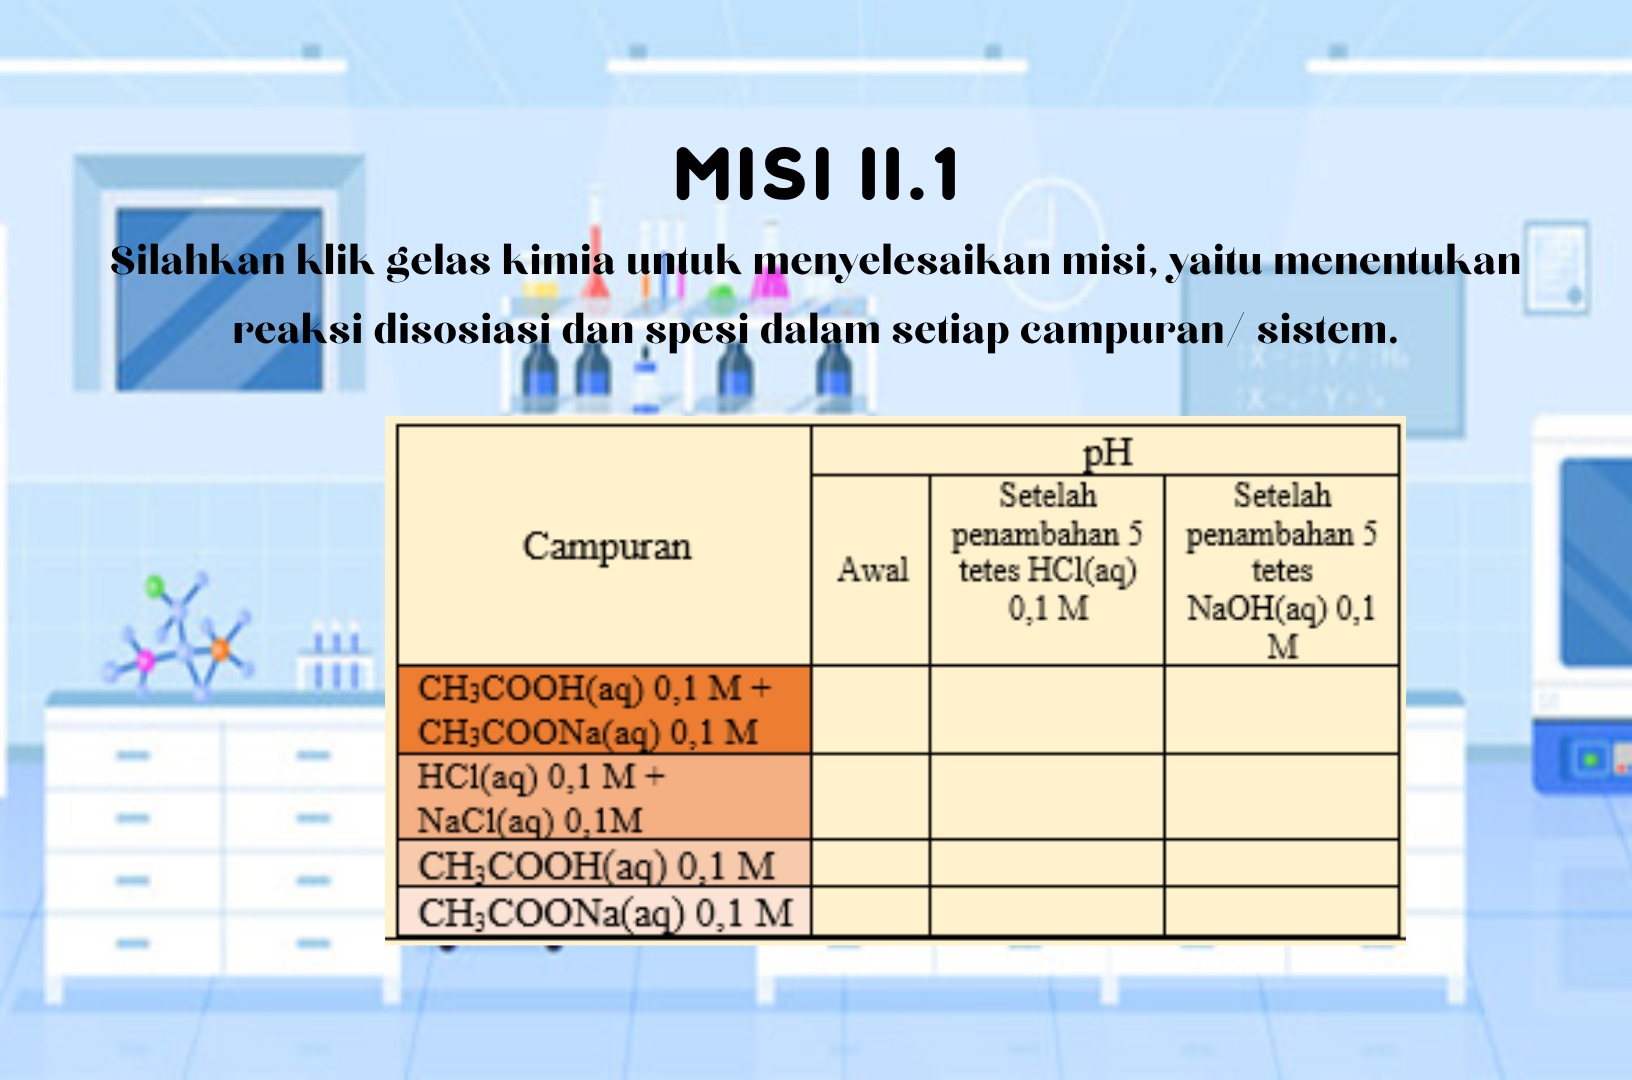
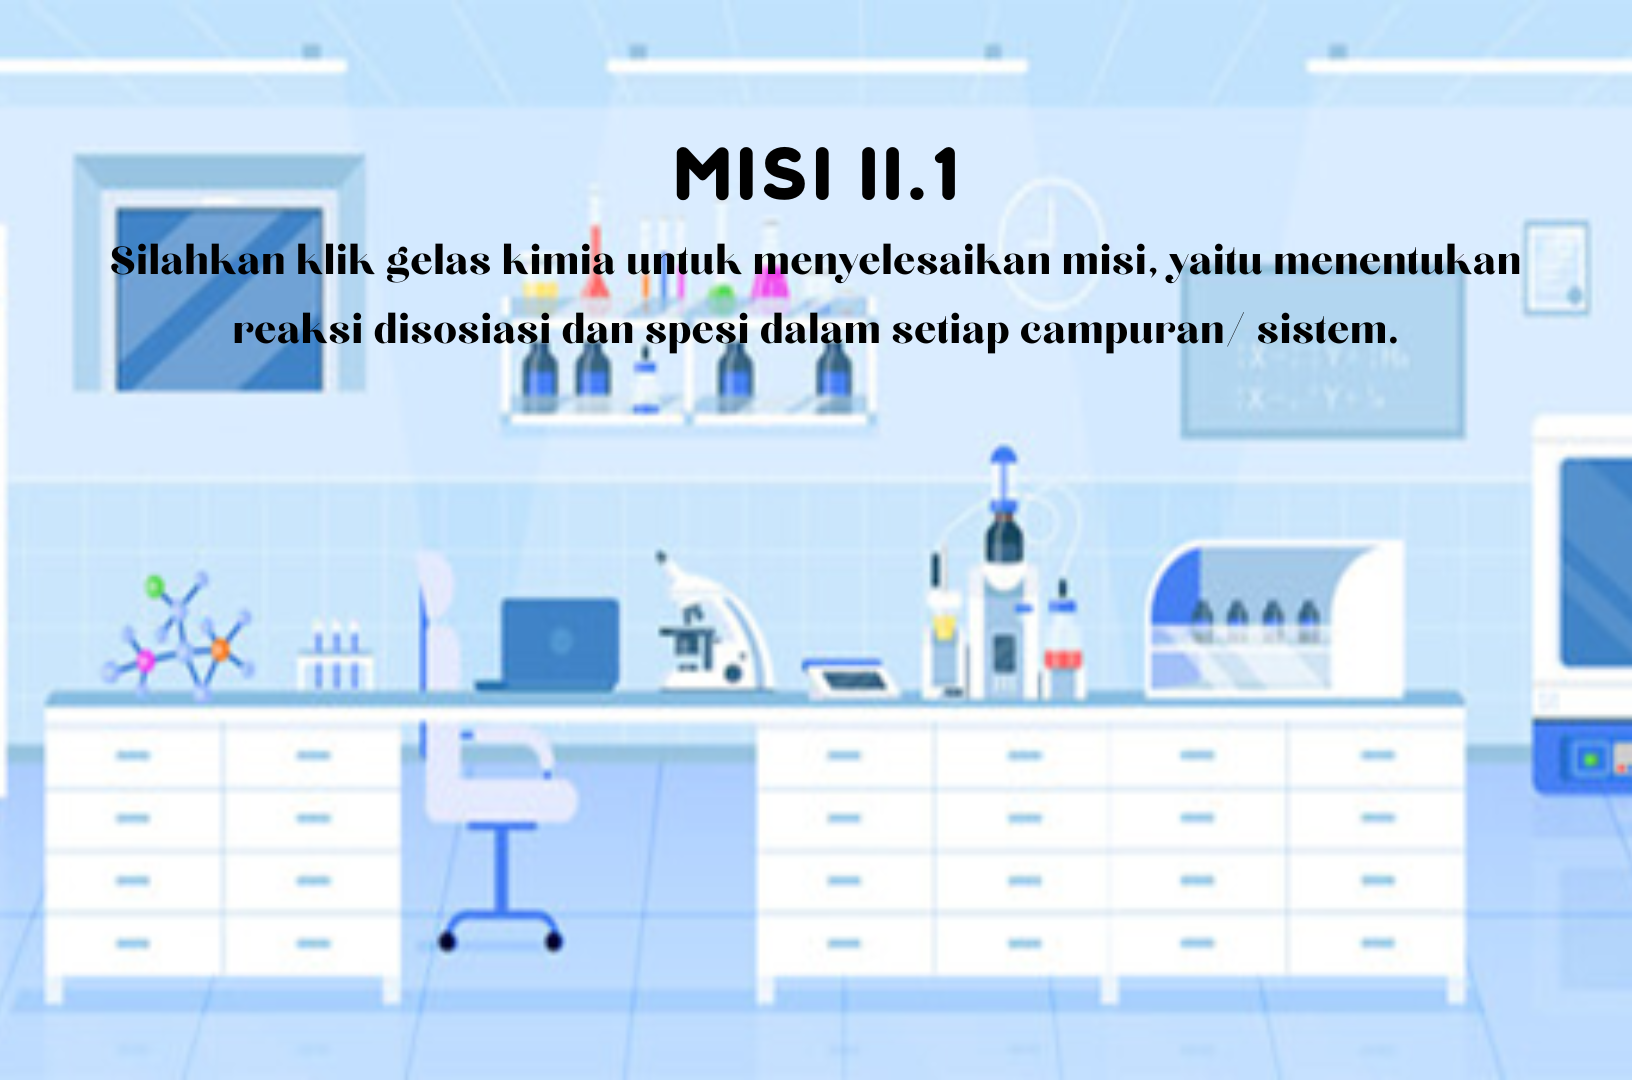
tabel misi 2.1 2.2, nyambungin 2.1 done

diff --git a/js/missionTwodotOne.js b/js/missionTwodotOne.js
@@ -1,51 +1,31 @@
-
-
-missionTwodotOne = new Phaser.Scene('menumisi2.1');
-
+missionTwodotOne = new Phaser.Scene('MenuMisi2.1');
 
 missionTwodotOne.preload = function () {
     this.load.path = './assets/';
-    this.load.image('menuBackground', 'scenes/dua_satu.png');
+    this.load.image('twoDotOneBG', 'scenes/dua_satu.png');
+    this.load.image('twoDotOneTable', 'scenes/dua_satu_table.png');
 }
 
 missionTwodotOne.create = function() {
+
+    //comment nanti, keperluan debugging doang. harusnya di initiate dari main menu.
+    middleX = this.cameras.main.width / 2;
+    middleY = this.cameras.main.height / 2;
+
+    //background
+    this.add.image(middleX, middleY, 'twoDotOneBG').setScale(1.18, 1.02);
+
+    //table
+    this.add.image(middleX + 250, middleY + 150, 'twoDotOneTable').setScale();
+
+    //button 1
+    //true ganti sm jsonMissionProses["2.1.1"]?
+    let satu = new Button(middleX - 430, middleY + 160, ' 1 ', this, () => {this.scene.start('Question211')}, true);
+
+    let dua = new Button(middleX - 310, middleY + 250, ' 2 ', this, () => {this.scene.start('Question213');}, true);
     
-   // createMissionBackgroundObjects (this, 'menuBackground');
+    let tiga = new Button(middleX - 430, middleY + 335, ' 3 ', this, () => {this.scene.start('Question215')},true);
 
-    let canvasWidth = game.canvas.width;
-    let canvasHeight = game.canvas.height;
+    let empat = new Button(middleX - 310, middleY + 385, ' 4 ', this, () => {this.scene.start('Question217')},true);
 
-    let image = this.add.image(this.cameras.main.width / 2, this.cameras.main.height / 2, 'menuBackground');
-    let scaleX = this.cameras.main.width / image.width;
-    let scaleY = this.cameras.main.height / image.height;
-    let scale = Math.max(scaleX, scaleY);
-    image.setScale(scale).setScrollFactor(0);
-
-    let baseY = canvasHeight/2 - 100;
-    let deltaX = 250;
-
-    let title1 = this.add.text(canvasWidth/2, baseY - 100, 'Pilih Misi')
-        .setOrigin(0.5)
-        .setStyle({ 'fontSize': 60, 'fill': '#000000' })
-        // .setStyle(`font-size: 60; color: #000000; font-weight: bold;`)
-        .setStroke('#fff', 5)
-    
-    let satu = new Button((canvasWidth/2) - (2*deltaX), baseY, '1', this, () => {this.scene.start('Misi1')}, true);
-    //temporary ke Question211
-    //harusnya ke Objective Misi 2
-    let dua = new Button((canvasWidth/2) - (1*deltaX), baseY, '2', this, () => {
-        this.scene.start('Question211');
-        energy = 100;
-    }, true);
-    //temporary langsung ke pertanyaannya
-    let tiga = new Button((canvasWidth/2) - (1*deltaX), baseY+100, '3', this, () => {this.scene.start('Question211')},true);
-    //seharusnya ke tabel tabulasi
-    // let btnMsn2sub1 = new Button((canvasWidth/2) - (1*deltaX), baseY+100, 'SUB-MISI II.1', this, () => {this.scene.start('mission1')},jsonMissionProses["2.1"]);
-    let empat = new Button((canvasWidth/2) - (1*deltaX), baseY+200, '4', this, () => {this.scene.start('mission1')},false);
-    // console.log(Phaser.GameObjects.Text)
-    // btnMsn1.setStroke('#000000', 100);
-    // console.log(btnMsn1.stroke);
-    // console.log(btnMsn1.strokeThickness);
 }
-
-

diff --git a/js/game.js b/js/game.js
@@ -46,17 +46,20 @@ var config = {
 
     //lengkap
 
-    scene: [mainMenu, findingObjects1, findingObjects2, 
-        question211, question212, question213, question214, question215, question216, question217, question218, question219, question2110, question2111, question2112,
-        question221, question222, question223, question224, question225, question226, question227, question228, question229, question2210, question2211, question2212, question2213, question2214,
-        selectChara, missionSelection, missionOne, missionThree, missionFour, missionFive, missionTwodotOne
-    ]
+    // scene: [mainMenu, selectChara, missionSelection, missionTwodotOne, missionTwodotTwo,
+    //     findingObjects1, findingObjects2,
+    //     question211, question212, question213, question214, question215, question216, question217, question218, question219, question2110, question2111, question2112,
+    //     question221, question222, question223, question224, question225, question226, question227, question228, question229, question2210, question2211, question2212, question2213, question2214,
+    //     missionOne, missionThree, missionFour, missionFive
+    // ]
 
 
     //development
     // scene: [question211, question212, question213, question214, question215, question216, question217, question218, question219, question2110, question2111, question2112]
     // scene: [question221, question222, question223, question224, question225, question226, question227, question228, question229, question2210, question2211, question2212, question2213, question2214]
-    // scene: [findingObjects1]
+    scene: [missionTwodotOne,
+        question211, question212, question213, question214, question215, question216, question217, question218, question219, question2110, question2111, question2112
+    ]
 };
 
 var game = new Phaser.Game(config);

diff --git a/js/missionSelection.js b/js/missionSelection.js
@@ -45,12 +45,15 @@ missionSelection.create = function() {
         this.scene.start('menumisi2.1');
         energy = 100;
     }, true);
-    //temporary langsung ke pertanyaannya
-    let btnMsn2sub1 = new Button((canvasWidth/2) - (1*deltaX), baseY+100, 'SUB-MISI II.1', this, () => {this.scene.start('Question211')},true);
-    //seharusnya ke tabel tabulasi
+    
+    //tabulasi 2.1
+    let btnMsn2sub1 = new Button((canvasWidth/2) - (1*deltaX), baseY+100, 'SUB-MISI II.1', this, () => {this.scene.start('MenuMisi2.1')},true);
+
+    //tabulasi 2.2
     // let btnMsn2sub1 = new Button((canvasWidth/2) - (1*deltaX), baseY+100, 'SUB-MISI II.1', this, () => {this.scene.start('mission1')},jsonMissionProses["2.1"]);
-    let btnMsn2sub2 = new Button((canvasWidth/2) - (1*deltaX), baseY+200, 'SUB-MISI II.2', this, () => {this.scene.start('Question221')},true);
+    let btnMsn2sub2 = new Button((canvasWidth/2) - (1*deltaX), baseY+200, 'SUB-MISI II.2', this, () => {this.scene.start('MenuMisi2.2')},true);
     // let btnMsn2sub2 = new Button((canvasWidth/2) - (1*deltaX), baseY+200, 'SUB-MISI II.2', this, () => {this.scene.start('mission1')},jsonMissionProses["2.2"]);
+    
     let btnMsn3 = new Button(canvasWidth/2, baseY, 'MISI III', this, () => {this.scene.start('Misi3')},jsonMissionProses["3"]);
     let btnMsn4 = new Button((canvasWidth/2) + (1*deltaX), baseY, 'MISI IV', this, () => {this.scene.start('Misi4')},jsonMissionProses["4"]);
     let btnMsn5 = new Button((canvasWidth/2) + (2*deltaX), baseY, 'MISI V', this, () => {this.scene.start('mission5')},jsonMissionProses["5"]);

diff --git a/js/question2110.js b/js/question2110.js
@@ -220,13 +220,13 @@ function showAnnouncementCorrectAnswer2110(scene, text) {
         descriptionBox.destroy();
         announcement.destroy();
 
-        //to question 10
+        //to question 11
         scene.scene.start('Question2111');
 
     }, middleX - 150, middleY + (descriptionBox.height/2) - 100);
 
     var exitBtn = createNextButton(scene, 'KELUAR', () => {
-        scene.scene.start('MainMenu');
+        scene.scene.start('MenuMisi2.1');
 
     }, middleX + 150, middleY + (descriptionBox.height/2) - 100);    
 }
@@ -307,21 +307,21 @@ function startOver2110(scene) {
 
     opsiJawaban2.on('pointerup', function () {
         //salah kedua kali? langsung tendang ke main menu
-        scene.scene.start('MainMenu');
+        scene.scene.start('MenuMisi2.1');
     });
 
     opsiJawaban3.on('pointerup', function () {
         //salah kedua kali? langsung tendang ke main menu
-        scene.scene.start('MainMenu');
+        scene.scene.start('MenuMisi2.1');
     });
 
     opsiJawaban4.on('pointerup', function () {
         //salah kedua kali? langsung tendang ke main menu
-        scene.scene.start('MainMenu');
+        scene.scene.start('MenuMisi2.1');
     });
 
     opsiJawaban5.on('pointerup', function () {
         //salah kedua kali? langsung tendang ke main menu
-        scene.scene.start('MainMenu');
+        scene.scene.start('MenuMisi2.1');
     });
 }

diff --git a/js/missionTwodotTwo.js b/js/missionTwodotTwo.js
@@ -1,0 +1,31 @@
+missionTwodotTwo = new Phaser.Scene('MenuMisi2.2');
+
+missionTwodotTwo.preload = function () {
+    this.load.path = './assets/';
+    this.load.image('twoDotOneBG', 'scenes/dua_dua.png');
+    this.load.image('twoDotOneTable', 'scenes/dua_dua_table.png');
+}
+
+missionTwodotTwo.create = function() {
+
+    //comment nanti, keperluan debugging doang. harusnya di initiate dari main menu.
+    middleX = this.cameras.main.width / 2;
+    middleY = this.cameras.main.height / 2;
+
+    //background
+    this.add.image(middleX, middleY, 'twoDotOneBG').setScale(1.18, 1.02);
+
+    //table
+    this.add.image(middleX + 250, middleY + 150, 'twoDotOneTable').setScale();
+
+    //button 1
+    //true ganti sm jsonMissionProses["2.2.1"]?
+    let satu = new Button(middleX - 550, middleY + 150, ' 1 ', this, () => {this.scene.start('Question221')}, true);
+
+    let dua = new Button(middleX - 430, middleY + 240, ' 2 ', this, () => {this.scene.start('Question223');}, true);
+    
+    let tiga = new Button(middleX - 550, middleY + 355, ' 3 ', this, () => {this.scene.start('Question225')},true);
+
+    let empat = new Button(middleX - 430, middleY + 385, ' 4 ', this, () => {this.scene.start('Question227')},false);
+
+}

diff --git a/js/question218.js b/js/question218.js
@@ -252,13 +252,13 @@ function showAnnouncementCorrectAnswer218(scene, text) {
         descriptionBox.destroy();
         announcement.destroy();
 
-        //to tabulasi screen
+        //to question 9
         scene.scene.start('Question219');
 
     }, middleX - 150, middleY + (descriptionBox.height/2) - 100);
 
     var exitBtn = createNextButton(scene, 'KELUAR', () => {
-        scene.scene.start('MainMenu')
+        scene.scene.start('MenuMisi2.1')
 
     }, middleX + 150, middleY + (descriptionBox.height/2) - 100);    
 }
@@ -355,7 +355,7 @@ function startOver218(scene) {
         }
         else {
             //salah kedua kali? langsung tendang ke main menu
-            scene.scene.start('MainMenu');
+            scene.scene.start('MenuMisi2.1');
         }  
 
     }, middleX, middleY + 350);

diff --git a/js/question212.js b/js/question212.js
@@ -269,12 +269,12 @@ function showAnnouncementCorrectAnswer212(scene, text) {
         announcement.destroy();
 
         //to tabulasi screen
-        scene.scene.start('Question213');
+        scene.scene.start('MenuMisi2.1');
 
     }, middleX - 150, middleY + (descriptionBox.height/2) - 100);
 
     var exitBtn = createNextButton(scene, 'KELUAR', () => {
-        scene.scene.start('MainMenu');
+        scene.scene.start('MenuMisi2.1');
 
     }, middleX + 150, middleY + (descriptionBox.height/2) - 100);    
 }
@@ -369,7 +369,7 @@ function startOver212(scene) {
         }
         else {
             //salah kedua kali? langsung tendang ke main menu
-            scene.scene.start('MainMenu');
+            scene.scene.start('MenuMisi2.1');
         }  
 
     }, middleX, middleY + 350);

diff --git a/js/question214.js b/js/question214.js
@@ -259,12 +259,12 @@ function showAnnouncementCorrectAnswer214(scene, text) {
         announcement.destroy();
 
         //to tabulasi screen
-        scene.scene.start('Question215');
+        scene.scene.start('MenuMisi2.1');
 
     }, middleX - 150, middleY + (descriptionBox.height/2) - 100);
 
     var exitBtn = createNextButton(scene, 'KELUAR', () => {
-        scene.scene.start('MainMenu')
+        scene.scene.start('MenuMisi2.1')
 
     }, middleX + 150, middleY + (descriptionBox.height/2) - 100);    
 }
@@ -364,7 +364,7 @@ function startOver214(scene) {
         }
         else {
             //salah kedua kali? langsung tendang ke main menu
-            scene.scene.start('MainMenu');
+            scene.scene.start('MenuMisi2.1');
         }  
 
     }, middleX, middleY + 350);

diff --git a/js/question216.js b/js/question216.js
@@ -259,12 +259,12 @@ function showAnnouncementCorrectAnswer216(scene, text) {
         announcement.destroy();
 
         //to tabulasi screen
-        scene.scene.start('Question217');
+        scene.scene.start('MenuMisi2.1');
 
     }, middleX - 150, middleY + (descriptionBox.height/2) - 100);
 
     var exitBtn = createNextButton(scene, 'KELUAR', () => {
-        scene.scene.start('MainMenu')
+        scene.scene.start('MenuMisi2.1')
 
     }, middleX + 150, middleY + (descriptionBox.height/2) - 100);    
 }
@@ -364,7 +364,7 @@ function startOver216(scene) {
         }
         else {
             //salah kedua kali? langsung tendang ke main menu
-            scene.scene.start('MainMenu');
+            scene.scene.start('MenuMisi2.1');
         }  
 
     }, middleX, middleY + 350);

diff --git a/js/question2112.js b/js/question2112.js
@@ -241,8 +241,8 @@ function showAnnouncementCorrectAnswer2112(scene, text) {
         descriptionBox.destroy();
         announcement.destroy();
 
-        //to missionSelection
-        scene.scene.start('MissionSelection');
+        //to Misi2, sequence X (pas dialog)
+        scene.scene.start('Misi2');
 
         //2.1 FINISHED
         //Panggil Method Time Finish di sini Dim
@@ -251,7 +251,7 @@ function showAnnouncementCorrectAnswer2112(scene, text) {
     }, middleX - 150, middleY + (descriptionBox.height/2) - 100);
 
     var exitBtn = createNextButton(scene, 'KELUAR', () => {
-        scene.scene.start('Question2110');
+        scene.scene.start('MenuMisi2.1');
 
     }, middleX + 150, middleY + (descriptionBox.height/2) - 100);    
 }

diff --git a/js/question219.js b/js/question219.js
@@ -152,7 +152,7 @@ Nah..berdasarkan perubahan pH pada campuran / sistem dalam tabel, manakah yang t
         }
         else {
             //salah sekali, tendang ke main menu
-            this.scene.start('MainMenu');
+            this.scene.start('MenuMisi2.1');
         }  
 
     }, middleX, middleY + 350);
@@ -213,7 +213,7 @@ function showAnnouncementCorrectAnswer219(scene, text) {
     }, middleX - 150, middleY + (descriptionBox.height/2) - 100);
 
     var exitBtn = createNextButton(scene, 'KELUAR', () => {
-        scene.scene.start('MainMenu');
+        scene.scene.start('MenuMisi2.1');
 
     }, middleX + 150, middleY + (descriptionBox.height/2) - 100);    
 }

diff --git a/js/question211.js b/js/question211.js
@@ -246,7 +246,7 @@ function showAnnouncementCorrectAnswer211(scene, text) {
     }, middleX - 150, middleY + (descriptionBox.height/2) - 100);
 
     var exitBtn = createNextButton(scene, 'KELUAR', () => {
-        scene.scene.start('MainMenu');
+        scene.scene.start('MenuMisi2.1');
 
     }, middleX + 150, middleY + (descriptionBox.height/2) - 100);    
 }
@@ -335,7 +335,7 @@ function startOver211(scene) {
         }
         else {
             //salah kedua kali? langsung tendang ke main menu
-            scene.scene.start('MainMenu');
+            scene.scene.start('MenuMisi2.1');
         }  
 
     }, middleX, middleY + 350);
